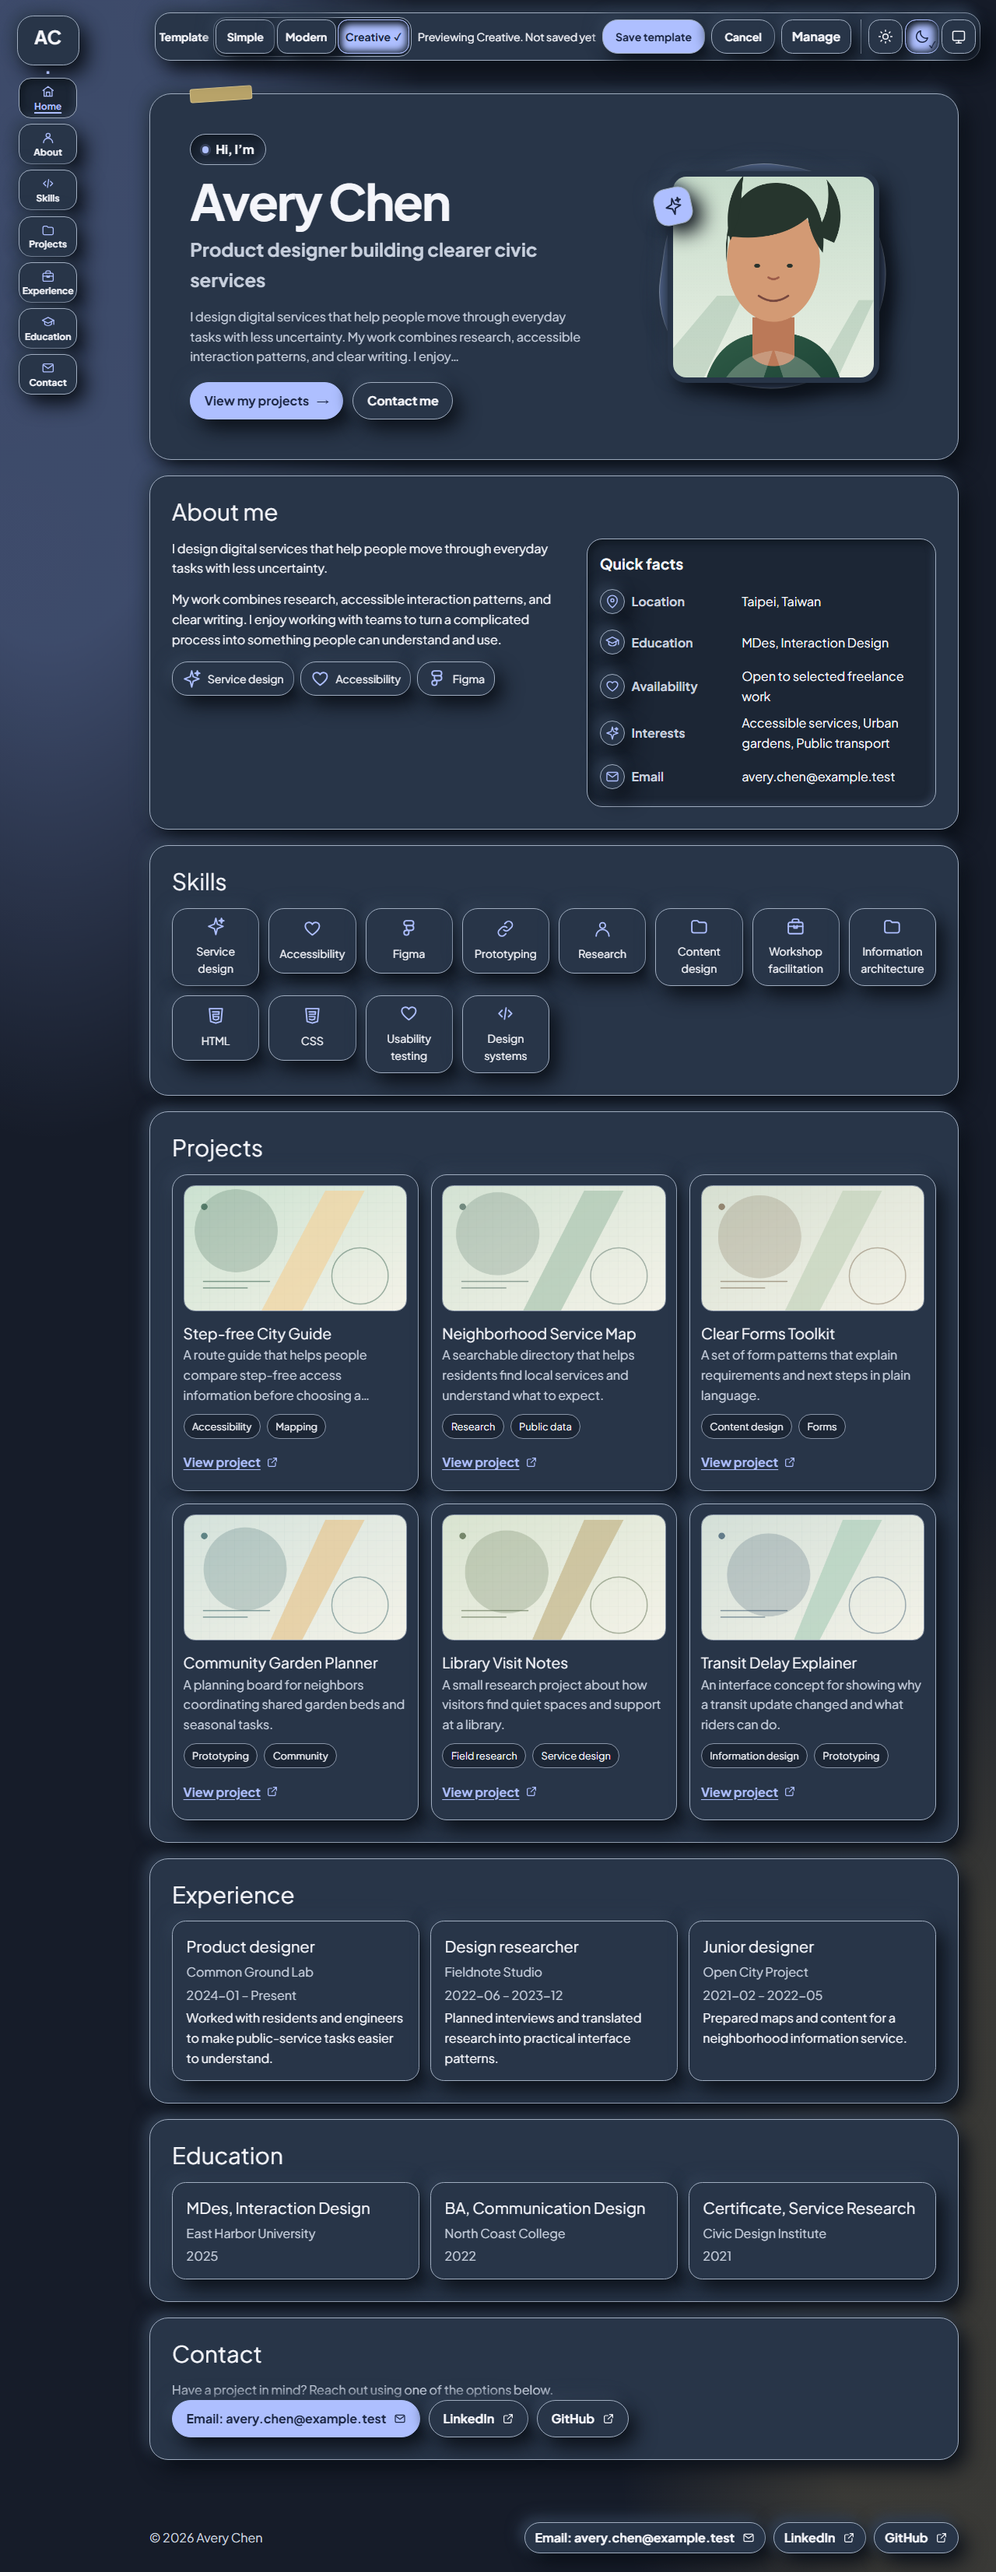
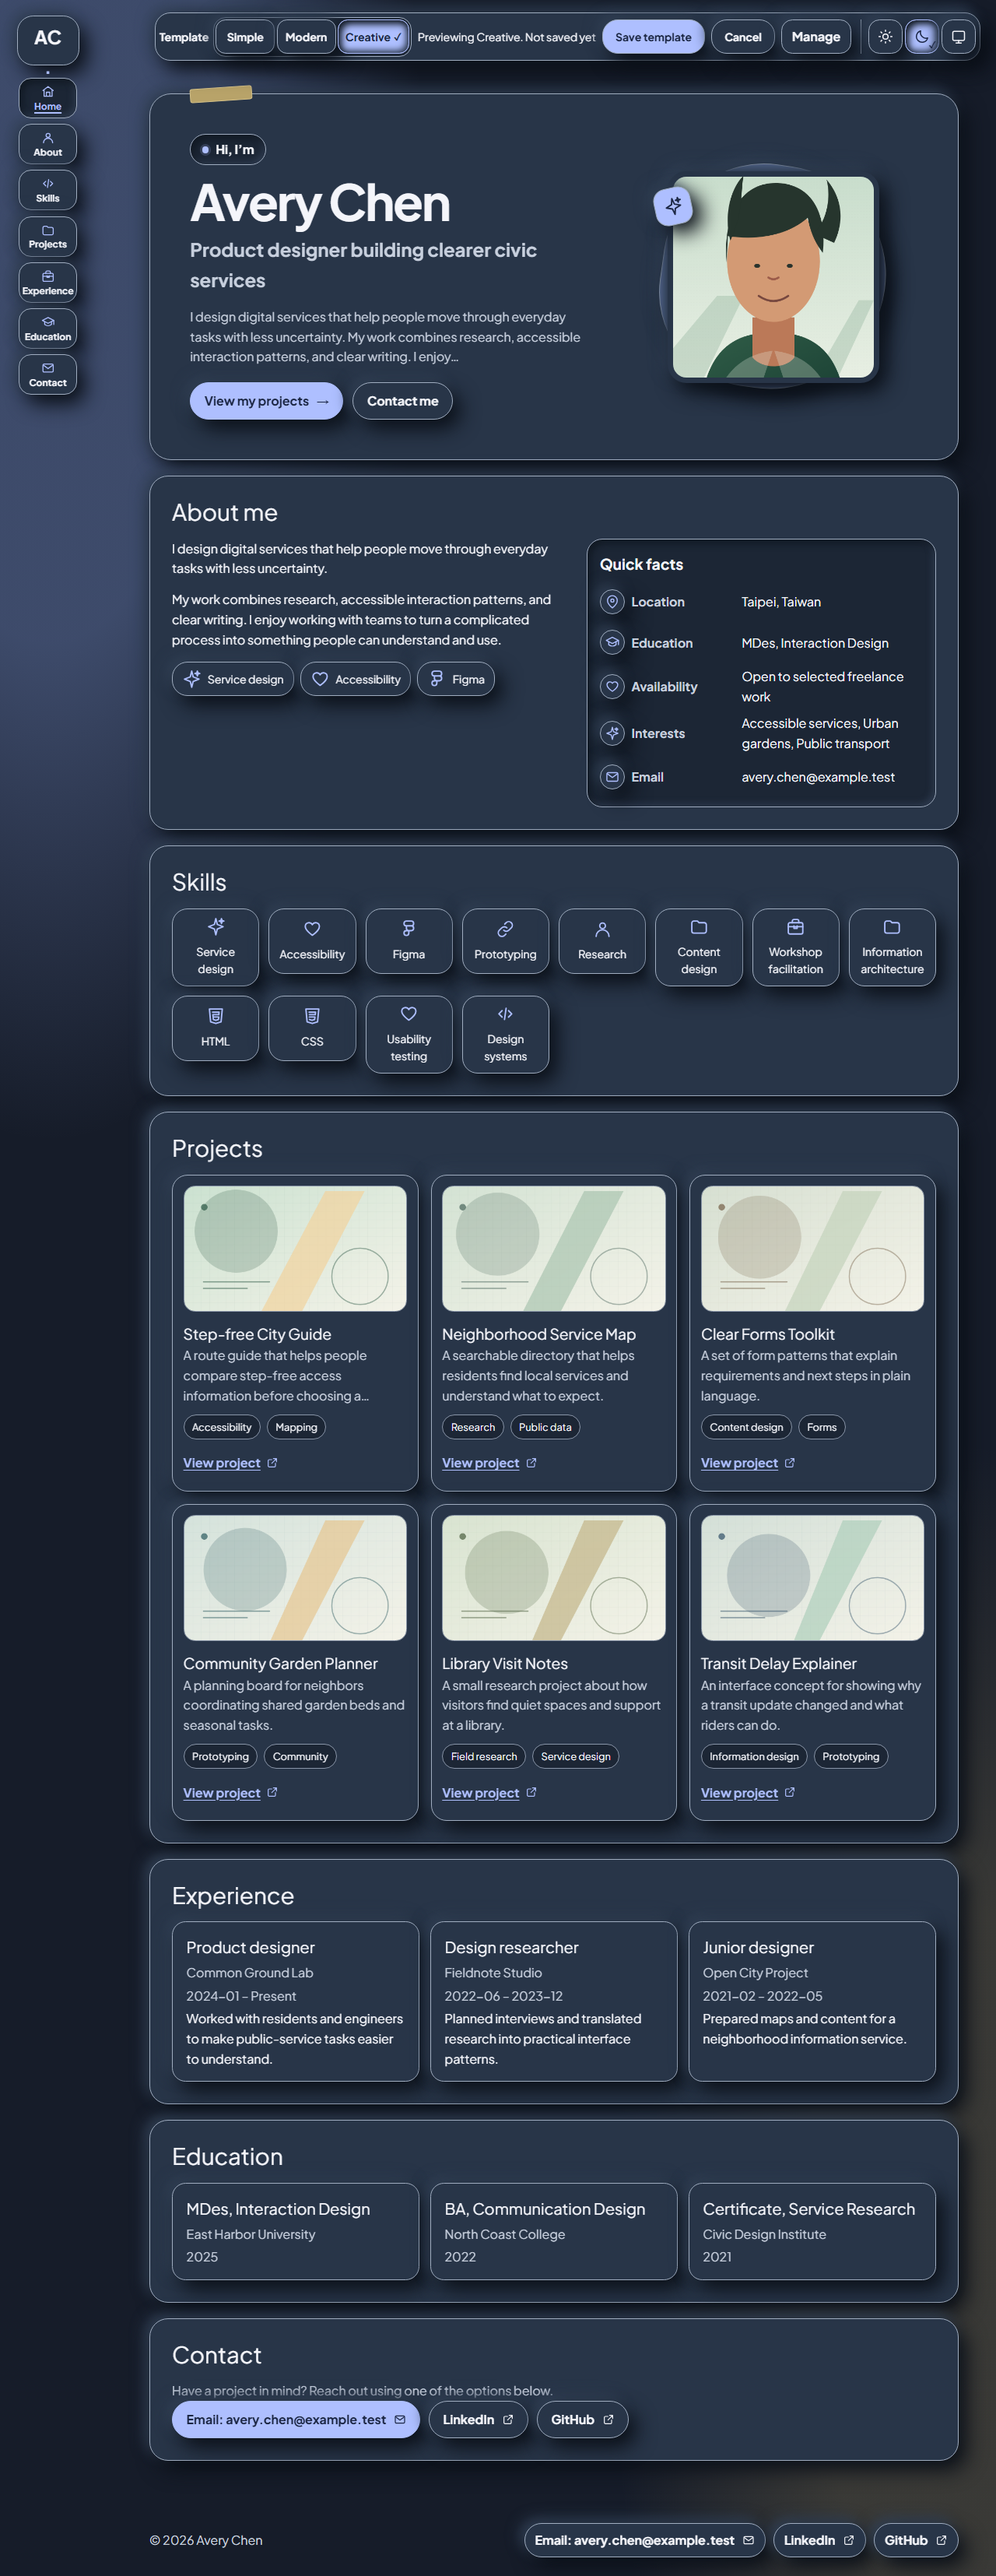
Keep Creative footer links at touch target size

diff --git a/resources/css/app.css b/resources/css/app.css
@@ -4056,7 +4056,7 @@ img.pf-avatar {
 }
 
 .pf-page[data-template="creative"] .pf-site-footer .pf-contact-links a {
-    min-height: 40px;
+    min-height: 44px;
     border-radius: 999px;
     padding: 0.4rem 0.8rem;
 }
